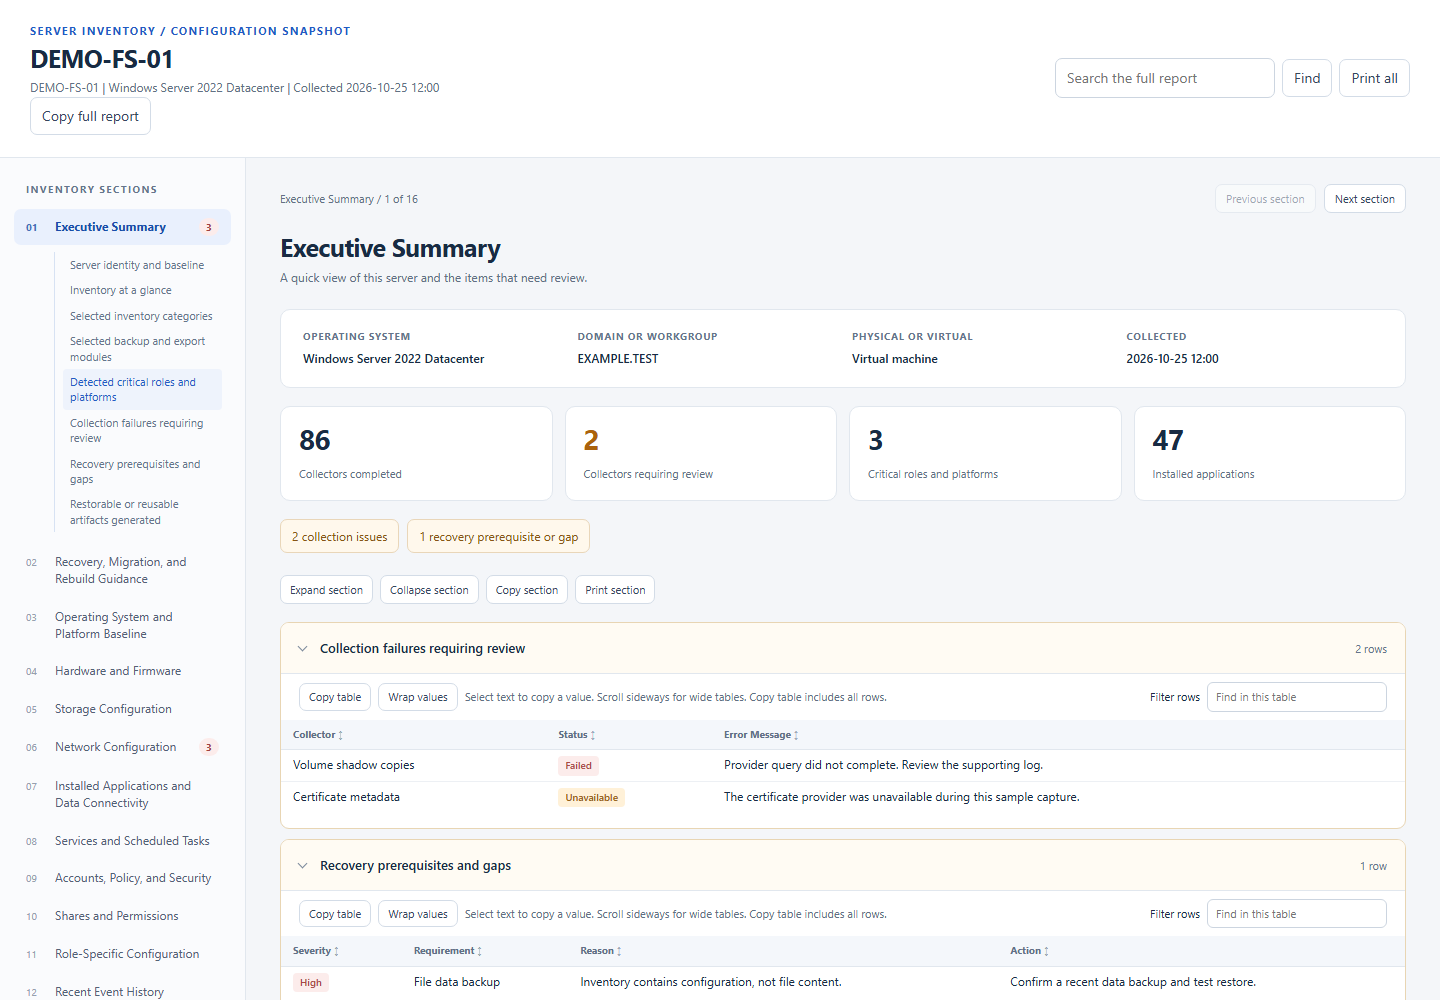
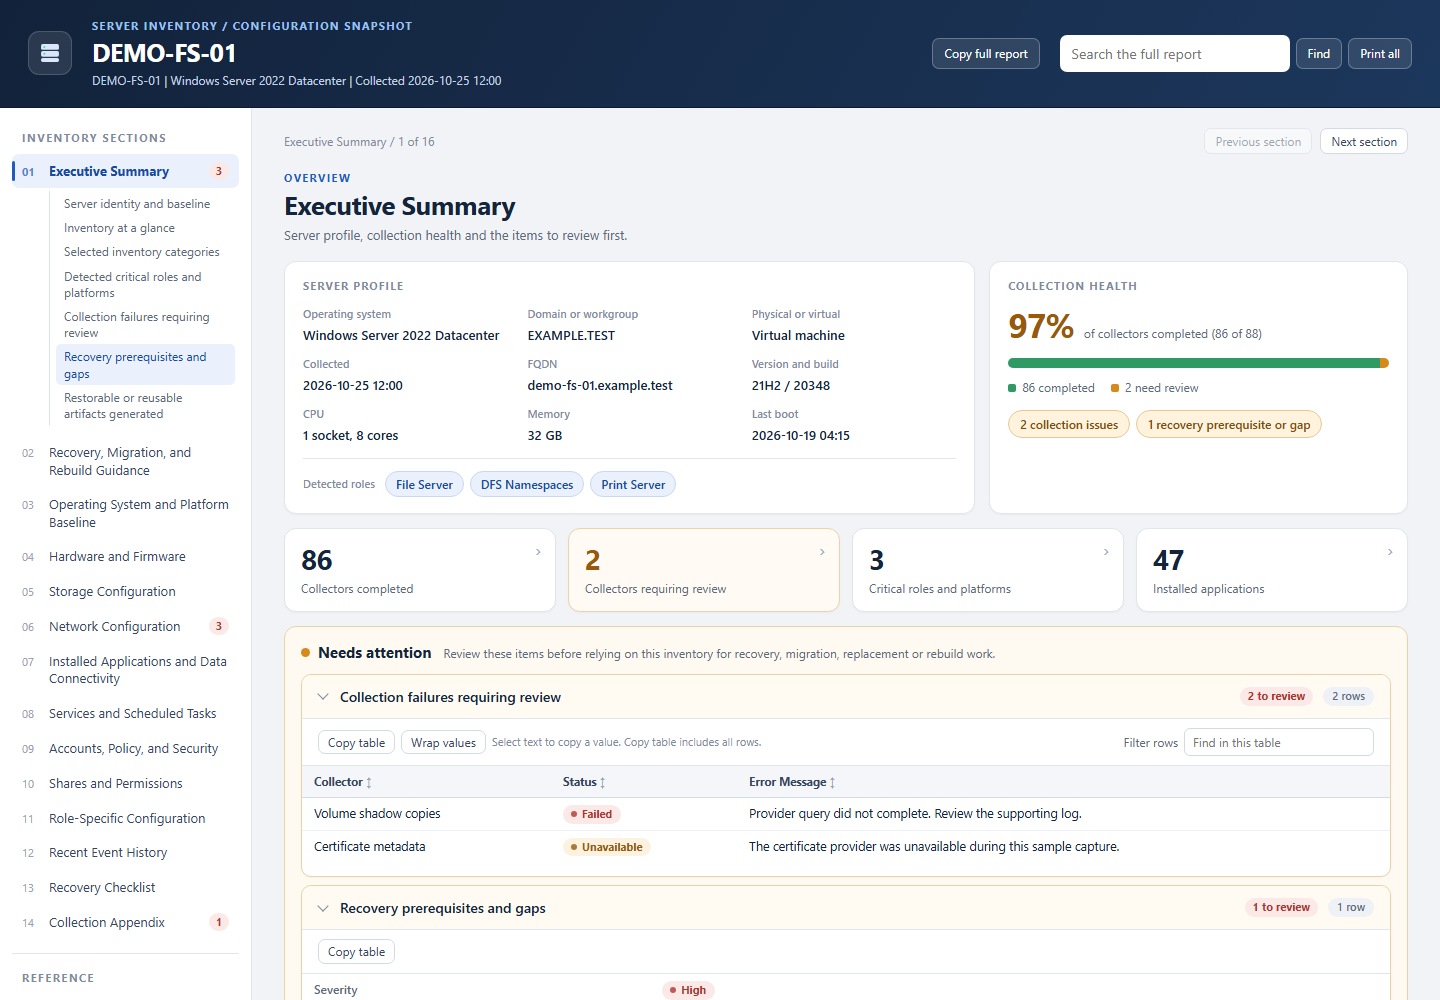
docs: record verified 3.2.15 release and refresh the report screenshot (#21)
Claude-Session: https://claude.ai/code/session_01AkZzWJd4n8w9BN2QEhNZPv

diff --git a/DEVELOPMENT_HANDOFF.md b/DEVELOPMENT_HANDOFF.md
@@ -1,3 +1,14 @@
+## 3.2.15 published and verified — 2026-11-10
+
+- [Release v3.2.15](https://github.com/TechSavage1989/Server-Inventory-Configuration-Manager/releases/tag/v3.2.15), tag and target commit `32395da1ca5819ca80b4c36538b997b267692d39` (publication PR #20, changing only `release/VERSION`). Source: full-width report, single-value copy and Copy path #18; release preparation #19.
+- [Publish run](https://github.com/TechSavage1989/Server-Inventory-Configuration-Manager/actions/runs/42761931769) passed in one attempt: build, native tests, report/workspace browser gates, publication, `Verify-PublicRelease.ps1`, and the published-upgrade job.
+- All 45 actual 3.2.14-to-3.2.15 upgrade checks passed in one run (05:29–05:38 UTC) with real two-minute focus and five-minute scheduler waits, no reused timer evidence and zero unexpected dialogs: automatic detection, explicit Download/Install/restart, old-profile closure, guest/extension/sync flags, shortcut/icon repair, settings and window restoration, manual check through the Help menu, staging cleanup and failed-health rollback/relaunch.
[2 lines of base64/hex data omitted]
+- #19 also widened `TestRateLimitBackoffIncludesManualChecks` by one second: the cache stores whole RFC 3339 seconds, so the 600 s backoff could read as just under 599 s and fail intermittently.
+
+Limits: synthetic hosted Windows/Edge testing, not live customer inventory, physical desktop/mixed-DPI interaction, human UAC consent or a legacy Windows field pass. Bringing folder windows to the front has only the automated hosted check. The single-value Copy control is pointer-only. CI artifacts were not downloaded, so no `release/3.2.15-verification.json` exists; the job logs above are the evidence. No client data was uploaded.
+
 ## 3.2.15 release preparation — 2026-11-10
 
[1 lines of base64/hex data omitted]

diff --git a/docs/VALIDATION.md b/docs/VALIDATION.md
@@ -1,3 +1,14 @@
+## 3.2.15 published and verified — 2026-11-10
+
+- [Release v3.2.15](https://github.com/TechSavage1989/Server-Inventory-Configuration-Manager/releases/tag/v3.2.15), tag and target commit `32395da1ca5819ca80b4c36538b997b267692d39` (publication PR #20, changing only `release/VERSION`). Source: full-width report, single-value copy and Copy path #18; release preparation #19.
+- [Publish run](https://github.com/TechSavage1989/Server-Inventory-Configuration-Manager/actions/runs/42761931769) passed in one attempt: build, native tests, report/workspace browser gates, publication, `Verify-PublicRelease.ps1`, and the published-upgrade job.
+- All 45 actual 3.2.14-to-3.2.15 upgrade checks passed in one run (05:29–05:38 UTC) with real two-minute focus and five-minute scheduler waits, no reused timer evidence and zero unexpected dialogs: automatic detection, explicit Download/Install/restart, old-profile closure, guest/extension/sync flags, shortcut/icon repair, settings and window restoration, manual check through the Help menu, staging cleanup and failed-health rollback/relaunch.
[2 lines of base64/hex data omitted]
+- #19 also widened `TestRateLimitBackoffIncludesManualChecks` by one second: the cache stores whole RFC 3339 seconds, so the 600 s backoff could read as just under 599 s and fail intermittently.
+
+Limits: synthetic hosted Windows/Edge testing, not live customer inventory, physical desktop/mixed-DPI interaction, human UAC consent or a legacy Windows field pass. Bringing folder windows to the front has only the automated hosted check. The single-value Copy control is pointer-only. CI artifacts were not downloaded, so no `release/3.2.15-verification.json` exists; the job logs above are the evidence. No client data was uploaded.
+
 ## 3.2.14 published and verified — 2026-11-10
 
 - [Release v3.2.14](https://github.com/TechSavage1989/Server-Inventory-Configuration-Manager/releases/tag/v3.2.14), tag and target commit `c84ccbaa78de8feabcdaa7ad6172efa756060a2a` (publication PR #16, changing only `release/VERSION`). Source: interface changes #13, report redesign #14, release preparation #15.
